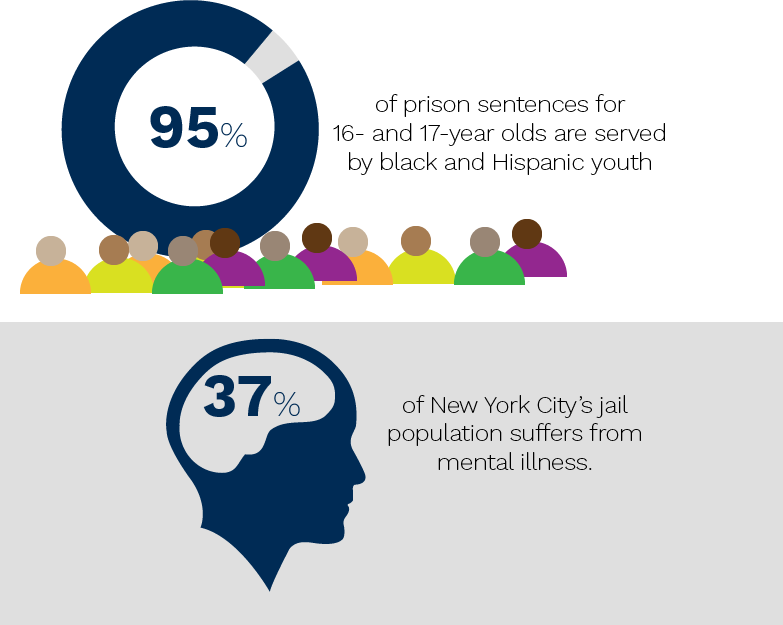
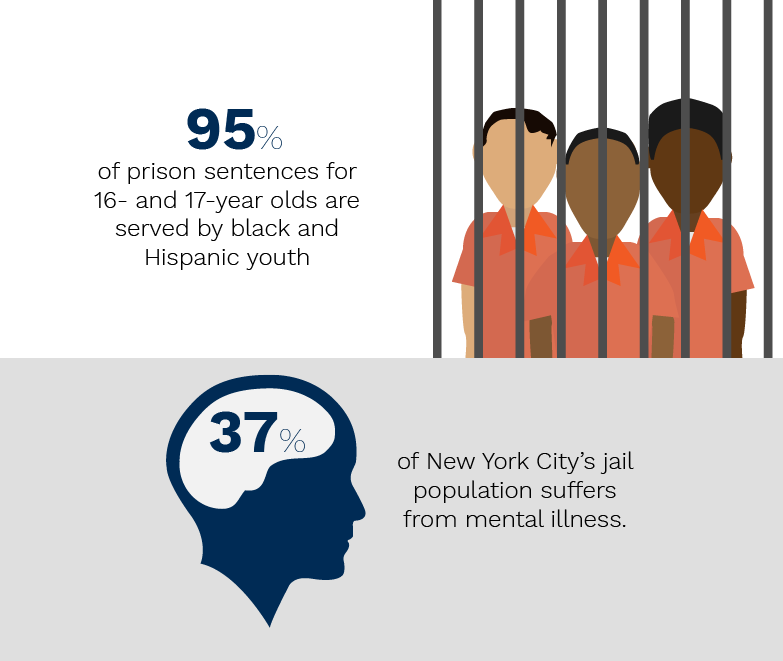
Infographic 1
Added the new infographic

diff --git a/wp-content/themes/caseslegit/index.php b/wp-content/themes/caseslegit/index.php
@@ -66,12 +66,10 @@ get_header();
                 <li> <a href="#what" aria-controls="what" role="tab" data-toggle="tab">What's Goin On</a> </li></ul>
 
             <div role="tabpanel" class="tab-pane fade in active" id="who">
-                <!-- <picture>
-                    <img srcset="wp-content/themes/caseslegit/images/fakegraph1x.png, wp-content/themes/caseslegit/images/fakegraph2.png 2x" alt="Teacher helping student">
-                </picture>-->
                 <picture>
-                <img srcset="wp-content/themes/caseslegit/images/Infographic2.png" alt="Teacher helping student">
+                    <img srcset="wp-content/themes/caseslegit/images/Infographic1.png, wp-content/themes/caseslegit/images/Infographic12x.png 2x" alt="I just want one night">
                 </picture>
+                
             </div> 
             <div role="tabpanel" class="tab-pane fade" id="what"><img src="images/fakeassgraphic.png" alt="The stat is real, tho."/></div>
             <p>Alright, so, as I said, sign up for our mailing list probably. Or donate. 
